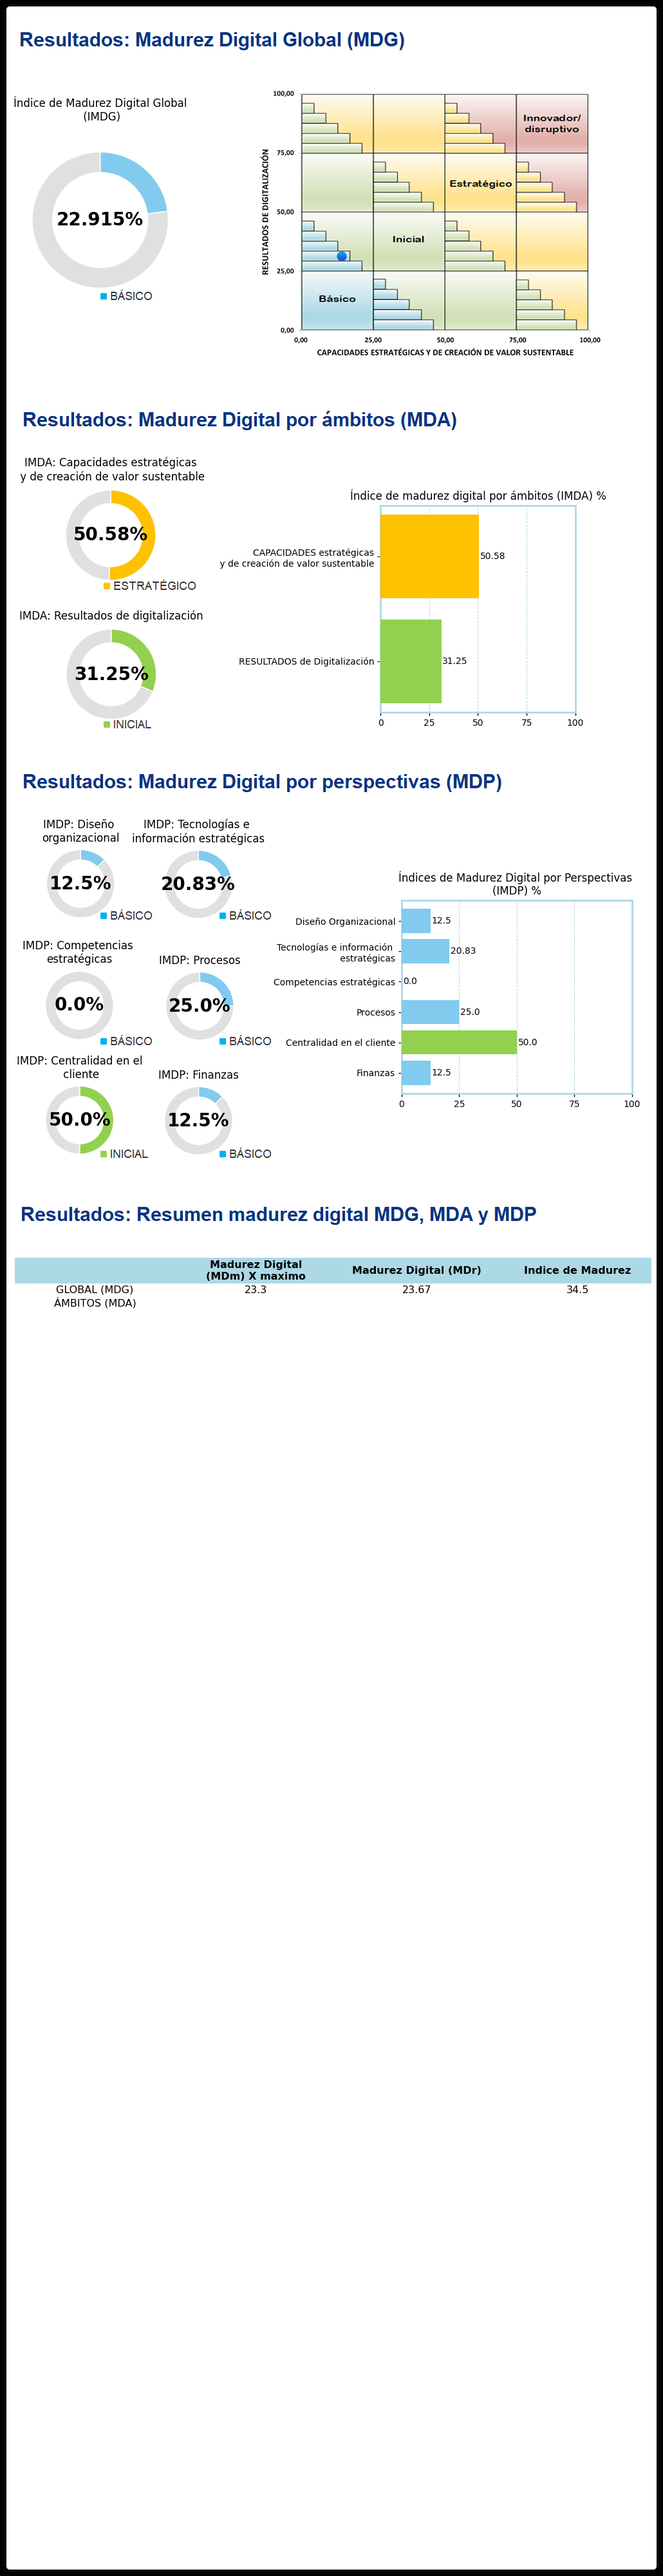
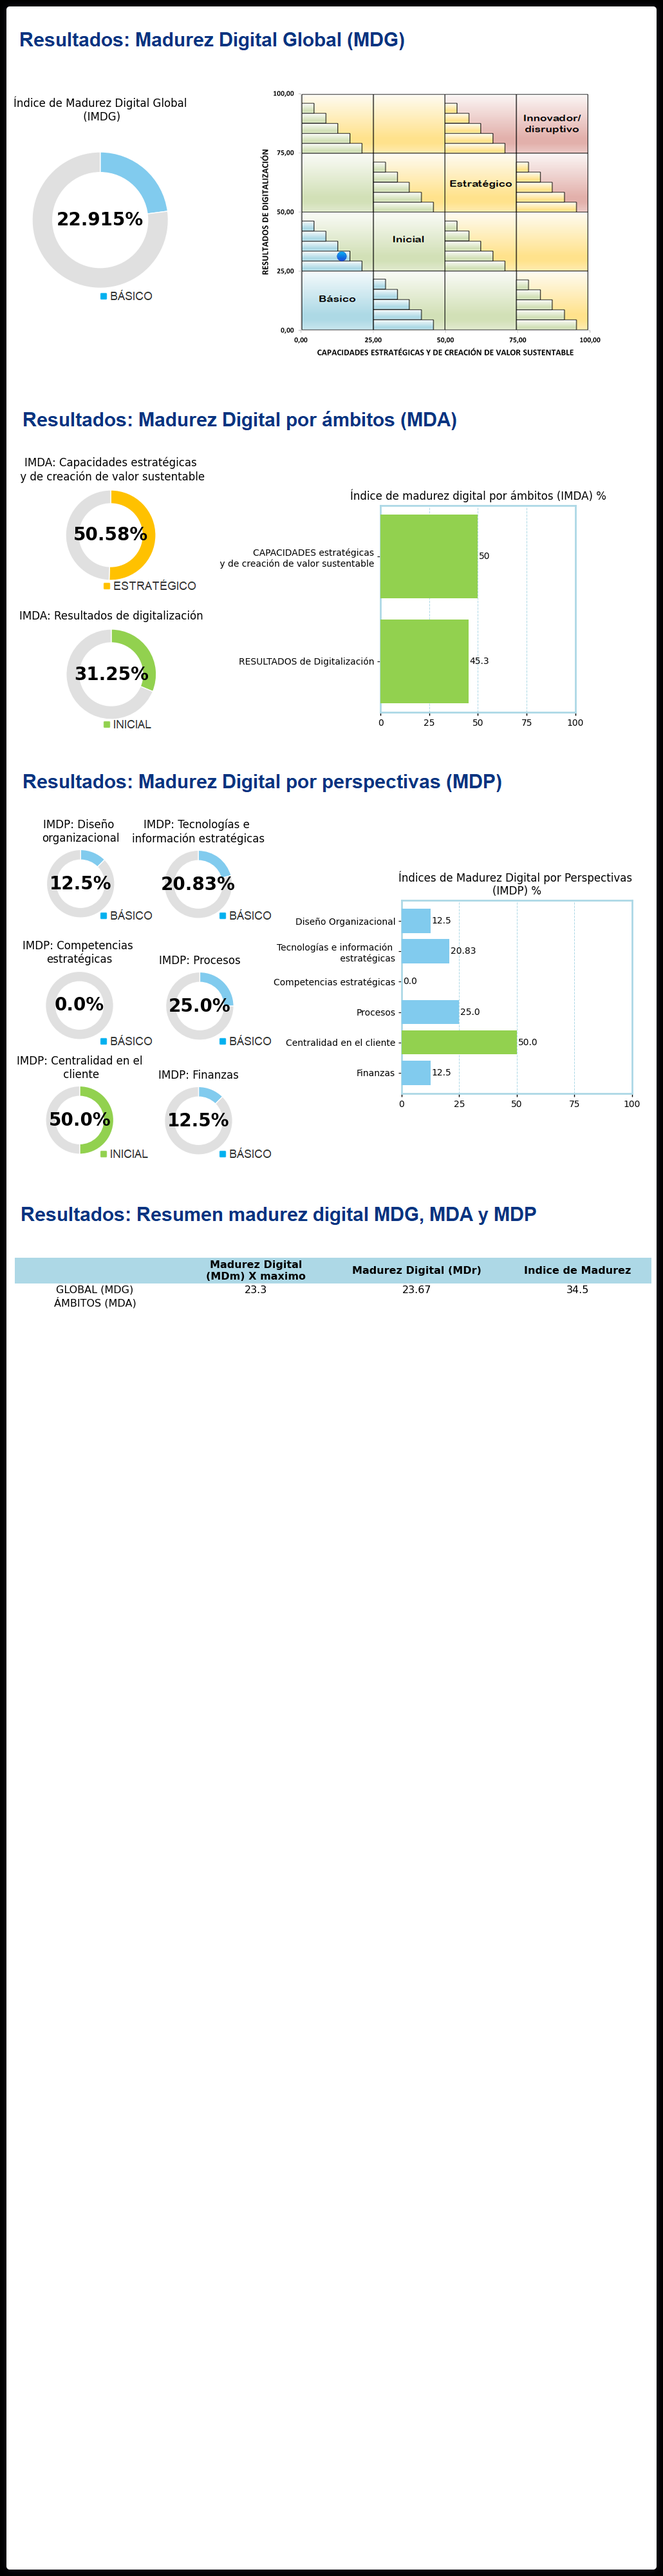
Corregidos errores generales. Agregada la funcionalidad de cargar preguntas desde la base de datos

Changed region(s): [[0.5592, 0.1875, 0.7456, 0.2812]]

diff --git a/src/Interface/newInterface/Chart/ChartAmbits.java b/src/Interface/newInterface/Chart/ChartAmbits.java
@@ -4,9 +4,17 @@ package Interface.newInterface.Chart;
 import Interface.export.swing.CircleProgressBar;
 import Interface.newInterface.python.PythonExecutor;
 
+import javax.imageio.ImageIO;
 import javax.swing.*;
 import java.awt.*;
+import java.awt.image.BufferedImage;
 import java.io.File;
+import java.io.IOException;
+import java.nio.file.DirectoryStream;
+import java.nio.file.Files;
+import java.nio.file.Path;
+import java.nio.file.Paths;
+import java.util.HashMap;
 import java.util.Objects;
 
 
@@ -64,12 +72,11 @@ public class ChartAmbits extends JPanel {
     }
 
 
-
     /**
      * Este método se encarga de crear el Encabezado para las gráficas
      */
-    private JLabel getHeader(){
-        if(header == null){
+    private JLabel getHeader() {
+        if (header == null) {
             header = new JLabel("Resultados: Madurez Digital por ámbitos (MDA)");
             header.setFont(new Font("Myriad Pro Bold Cond", Font.BOLD, 30));
             header.setBounds(20, 10, 800, 80);
@@ -87,7 +94,6 @@ public class ChartAmbits extends JPanel {
             indicatorIndex1.setOpaque(false);
             indicatorIndex1.setHorizontalAlignment(SwingConstants.LEFT);
             indicatorIndex1.setHorizontalTextPosition(SwingConstants.RIGHT);
-
 
 
             if (index1 >= 0 && index1 <= 25) {
@@ -122,7 +128,6 @@ public class ChartAmbits extends JPanel {
             indicatorIndex2.setHorizontalTextPosition(SwingConstants.RIGHT);
 
 
-
             if (index2 >= 0 && index2 <= 25) {
                 indicatorIndex2.setText("BÁSICO");
                 Icon icon = new ImageIcon(Objects.requireNonNull(getClass().getResource("/util/indicador- Basico.png")));
@@ -144,14 +149,14 @@ public class ChartAmbits extends JPanel {
         return indicatorIndex2;
     }
 
-    private JLabel getPieChartCapEst(){
-        if(pieChartCapEst == null){
+    private JLabel getPieChartCapEst() {
+        if (pieChartCapEst == null) {
             pieChartCapEst = new JLabel();
 
             String value = String.valueOf(index1);
 
             File file = new File("/util/chartsPython/graficaCircular2.png");
-            if(!file.exists() && file.isFile() && file.getName().endsWith(".png"))
+            if (!file.exists() && file.isFile() && file.getName().endsWith(".png"))
                 PythonExecutor.pieChart("'IMDA: Capacidades estratégicas\\n y de creación de valor sustentable'", value, "", "2", "'2'");
 
             Icon icon = new ImageIcon(Objects.requireNonNull(getClass().getResource("/util/chartsPython/graficaCircular2.png")));
@@ -161,26 +166,26 @@ public class ChartAmbits extends JPanel {
         return pieChartCapEst;
     }
 
-    private JLabel getPieChartResultDig(){
-        if(pieChartResultDig == null){
+    private JLabel getPieChartResultDig() {
+        if (pieChartResultDig == null) {
             pieChartResultDig = new JLabel();
 
             String value = String.valueOf(index2);
 
             File file = new File("/util/chartsPython/graficaCircular3.png");
-            if(!file.exists() && file.isFile() && file.getName().endsWith(".png"))
+            if (!file.exists() && file.isFile() && file.getName().endsWith(".png"))
                 PythonExecutor.pieChart("'IMDA: Resultados de digitalización'", value, "", "2", "'3'");
 
             Icon icon = new ImageIcon(Objects.requireNonNull(getClass().getResource("/util/chartsPython/graficaCircular3.png")));
             pieChartResultDig.setIcon(icon);
-            pieChartResultDig.setBounds(5, pieChartCapEst.getY() + pieChartCapEst.getHeight() + 20 , icon.getIconWidth(), icon.getIconHeight());
+            pieChartResultDig.setBounds(5, pieChartCapEst.getY() + pieChartCapEst.getHeight() + 20, icon.getIconWidth(), icon.getIconHeight());
         }
         return pieChartResultDig;
     }
 
 
-    private JLabel getImdaChart(){
-        if(imdaChart == null){
+    private JLabel getImdaChart() {
+        if (imdaChart == null) {
             imdaChart = new JLabel();
 
             String values = "[" + index2 + "," + index1 + "]";
@@ -188,7 +193,7 @@ public class ChartAmbits extends JPanel {
             String title = "'Índice de madurez digital por ámbitos (IMDA) %'";
 
             File file = new File("/util/chartsPython/graficaBarra1.png");
-            if(!file.exists() && file.isFile() && file.getName().endsWith(".png"))
+            if (!file.exists() && file.isFile() && file.getName().endsWith(".png"))
                 PythonExecutor.imdChart(categories, values, "6", "4", "'1'", title);
 
             Icon icon = new ImageIcon(Objects.requireNonNull(getClass().getResource("/util/chartsPython/graficaBarra1.png")));
@@ -197,6 +202,34 @@ public class ChartAmbits extends JPanel {
         }
         return imdaChart;
     }
+
+
+    public void settearIcons() {
+        String values = "[" + 45.3 + "," + 50 + "]";
+        String categories = "['RESULTADOS de Digitalización', 'CAPACIDADES estratégicas\\n y de creación de valor sustentable']";
+        String title = "'Índice de madurez digital por ámbitos (IMDA) %'";
+
+        PythonExecutor.imdChart(categories, values, "6", "4", "'1'", title);
+        Icon icon = new ImageIcon(Objects.requireNonNull(getClass().getResource("/util/chartsPython/graficaBarra1.png")));
+        imdaChart.setIcon(icon);
+        imdaChart.repaint();
+
+        HashMap<String, BufferedImage> imageCache = new HashMap<>();
+        try {
+            BufferedImage img = ImageIO.read(getClass().getResourceAsStream("/util/chartsPython/graficaBarra1.png"));
+            imageCache.put("imagen1", img);
+        } catch (IOException e) {
+            e.printStackTrace();
+        }
+
+        BufferedImage img = imageCache.get("imagen1");
+        if (img != null) {
+            imdaChart.setIcon(new ImageIcon(img));
+            imdaChart.repaint();
+        }
+
+    }
+
 
     @Override
     protected void paintComponent(Graphics grphcs) {
@@ -264,8 +297,8 @@ public class ChartAmbits extends JPanel {
         g2D.drawString("CAPACIDADES estratégicas y de", 400, 240);
         g2D.drawString("creación de valor sustentable", 400, 260);
         g2D.drawString("RESULTADOS de digitalización", 400, 400);
-        g2D.drawString(""+this.index1, 670 + calcBarWidth(this.index1 + 2), 250);
-        g2D.drawString(""+this.index2, 670 + calcBarWidth(this.index2 + 2), 400);
+        g2D.drawString("" + this.index1, 670 + calcBarWidth(this.index1 + 2), 250);
+        g2D.drawString("" + this.index2, 670 + calcBarWidth(this.index2 + 2), 400);
 
     }
 
@@ -339,7 +372,6 @@ public class ChartAmbits extends JPanel {
 
 
     }
-
 
 
 }

diff --git a/src/Interface/newInterface/QuestionPanel.java b/src/Interface/newInterface/QuestionPanel.java
@@ -8,7 +8,6 @@ import logic.DAO.DAOPerspectiva;
 import logic.DAO.DAOPregunta;
 import logic.Entitys.Perspectiva;
 import logic.Entitys.Pregunta;
-import logic.Questions;
 import util.table.MyTableCellRenderer;
 
 import javax.swing.*;
@@ -54,8 +53,6 @@ public class QuestionPanel extends JPanel {
     private ButtonMenu btnSavePDF;
     private ButtonMenu btnPreview;
     private JLabel header;
-    private final Questions questions = new Questions();
-    private final ArrayList<JComboBox<String>> comboBoxSelector;
 
     private final DAOPerspectiva daoPerspectiva = new DAOPerspectiva();
     private final DAOPregunta daoPregunta = new DAOPregunta();
@@ -63,16 +60,13 @@ public class QuestionPanel extends JPanel {
     // ========================================================================
 
 
-    public QuestionPanel(Principal1 p) throws Exception {
+    public QuestionPanel(Principal1 p) {
         reportPanel = new JScrollPane();
         p.getContentPane().add(reportPanel);
-
-        comboBoxSelector = new ArrayList<>();
 
         reportPanel.setBounds(241, 100, 1039, 620);
         reportPanel.setBorder(null);
         reportPanel.setVerticalScrollBar(new ScrollBarCustom());
-        //reportPanel.setHorizontalScrollBarPolicy(HORIZONTAL_SCROLLBAR_NEVER);
         reportPanel.setViewportView(getQuestionsPanel(p));
         reportPanel.setViewportBorder(null);
         reportPanel.setVisible(false);
@@ -140,7 +134,7 @@ public class QuestionPanel extends JPanel {
                 panel.addMouseListener(new MouseAdapter() {
                     @Override
                     public void mouseClicked(MouseEvent e) {
-                        if(panel.contains(e.getPoint()))
+                        if (panel.contains(e.getPoint()))
                             getQuestionsTable().clearSelection();
                     }
                 });
@@ -185,8 +179,10 @@ public class QuestionPanel extends JPanel {
             btnSavePDF.addMouseListener(new MouseAdapter() {
                 @Override
                 public void mouseClicked(MouseEvent e) {
-                    if (btnSavePDF.getText().equals("Finalizar") && getPilaPanelesVisibles().size() == 1)
+                    if (btnSavePDF.getText().equals("Finalizar") && getPilaPanelesVisibles().size() == 1) {
+                        p.getReportPanel().settearIcons();
                         p.getMenuPanel().panelControl(p, ReportPanel.Frame_Value);
+                    }
                     setVisibilityDimensionsPanels(1, p);
                 }
             });
@@ -353,7 +349,7 @@ public class QuestionPanel extends JPanel {
             @Override
             public void mousePressed(MouseEvent e) {
                 if (questionsTable.getSelectedRow() != -1) {
-                    if (questionsTable.isColumnSelected(1) && e.getClickCount() ==2) {
+                    if (questionsTable.isColumnSelected(1) && e.getClickCount() == 2) {
                         JOptionPane.showMessageDialog(null, "<html>" +
                                 "<head>\n" +
                                 "    <meta charset=\"UTF-8\">\n" +

diff --git a/src/Interface/newInterface/Principal1.java b/src/Interface/newInterface/Principal1.java
@@ -19,6 +19,7 @@ public class Principal1 extends JFrame {
     public Principal1() throws Exception{
         setBounds(0, 0, 1280, 720);
         setDefaultCloseOperation(EXIT_ON_CLOSE);
+        setTitle("TEST DE TRANSFORMACIÓN DIGITAL (TETR4DIG)");
         setLocationRelativeTo(null);
         setContentPane(new JPanel());
         setBackground(Color.BLACK);

diff --git a/src/Interface/newInterface/Chart/ReportPanel.java b/src/Interface/newInterface/Chart/ReportPanel.java
@@ -257,4 +257,8 @@ public class ReportPanel extends JScrollPane {
     }
 
 
+    public void settearIcons(){
+        getChartAmbits().settearIcons();
+    }
+
 }
